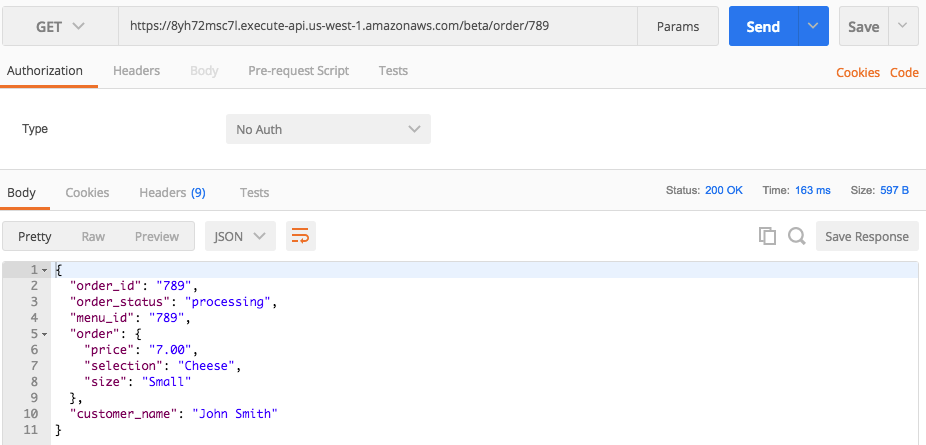
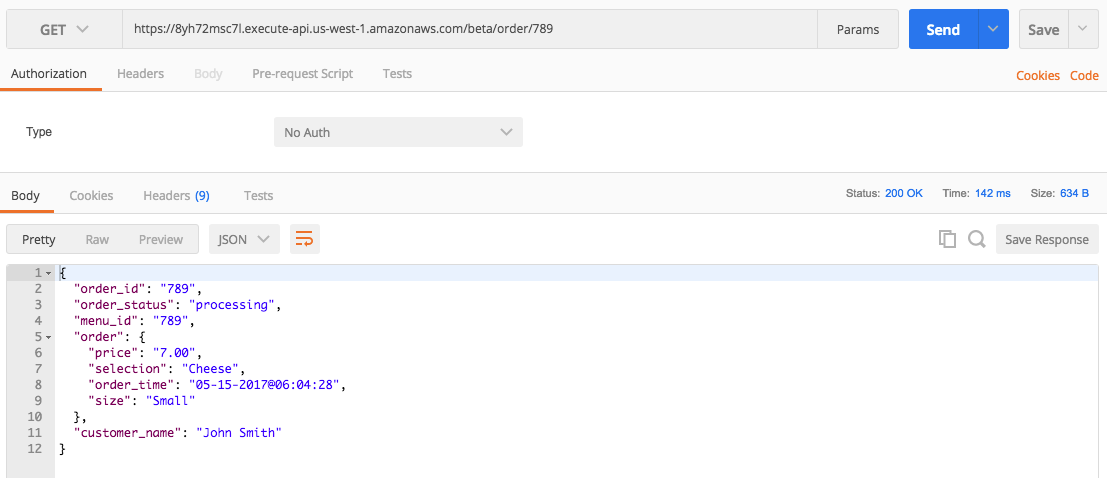
1. edit readme 2. change clear picture

diff --git a/assignment2/mypizzashop-order/service.py b/assignment2/mypizzashop-order/service.py
@@ -2,6 +2,7 @@ from __future__ import print_function
 import boto3
 import boto
 import json
+import datetime
 
 def selectState(order_tb, menu_tb, body):
     order_tb.put_item(Item=body)
@@ -69,7 +70,7 @@ def order_handler(event, context):
             order = order_tb.get_item(Key=order_id).get('Item').get('order')
             order['size'] = size.get(input)
             order['price'] = str(price.get(input-1))
-
+            order['order_time'] = str(datetime.datetime.now().strftime('%m-%d-%Y@%H:%M:%S'))
             order_tb.update_item(Key=order_id,
                 UpdateExpression='SET order_status = :val1, #o = :val2',
                 ExpressionAttributeNames={'#o': 'order'},

diff --git a/assignment2/assignment_submission/README.md b/assignment2/assignment_submission/README.md
@@ -1,10 +1,12 @@
 ### Assignment Submission
 
-[api_gateway setup](https://github.com/kanghuawu/cmpe273-spring17/tree/master/assignment2/api_gateway)
+- [api_gateway setup](https://github.com/kanghuawu/cmpe273-spring17/tree/master/assignment2/api_gateway)
+api_map_template_req is for mapping resquest.
+api_map_template_res is for mapping response.
 
-[mypizzashop-menu](https://github.com/kanghuawu/cmpe273-spring17/tree/master/assignment2/mypizzashop-menu)
+- [mypizzashop menu](https://github.com/kanghuawu/cmpe273-spring17/tree/master/assignment2/mypizzashop-menu)
 
-[mypizzashop-order](https://github.com/kanghuawu/cmpe273-spring17/tree/master/assignment2/mypizzashop-order)
+[mypizzashop order](https://github.com/kanghuawu/cmpe273-spring17/tree/master/assignment2/mypizzashop-order)
 
 1. POST menu
 ![post_menu](picture/1_POST_menu.png "post menu")
